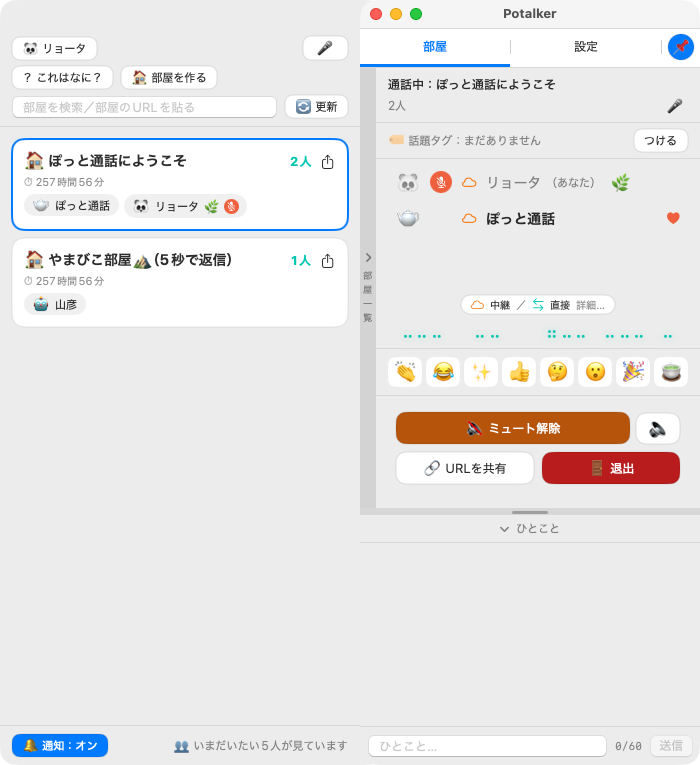
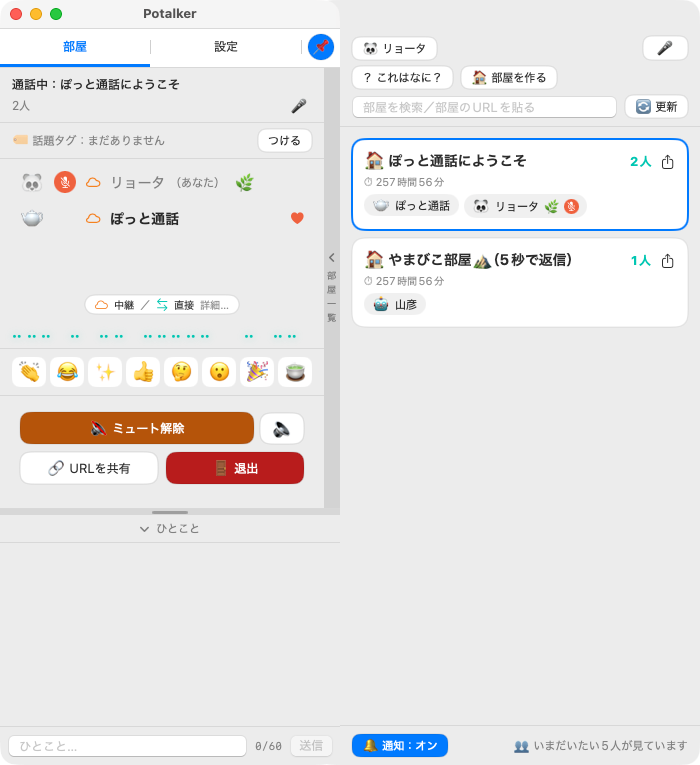
README: シングルペインの画面の説明を、左右が逆だったのを直し、言い回しを整える

diff --git a/README.md b/README.md
@@ -60,9 +60,9 @@
 
 #### 画面（Mac 版・シングルペイン）
 
-| 部屋一覧を右に出したところ | 部屋一覧を左に出したところ |
+| 部屋一覧のドロワーが、窓の左に出たところ | 部屋一覧のドロワーが、窓の右に出たところ |
 |---|---|
-| ![部屋一覧のドロワーを右に出した](docs/images/mac-single-drawer-right.png) | ![部屋一覧のドロワーを左に出した](docs/images/mac-single-drawer-left.png) |
+| ![部屋一覧のドロワーが、窓の左に出ている](docs/images/mac-single-drawer-left.png) | ![部屋一覧のドロワーが、窓の右に出ている](docs/images/mac-single-drawer-right.png) |
 
 | ひとことを開いたところ | ひとことを閉じたところ |
 |---|---|
